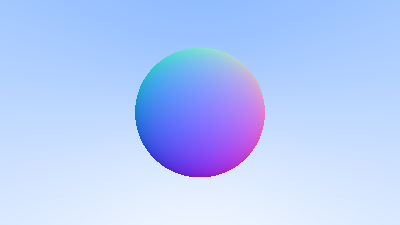
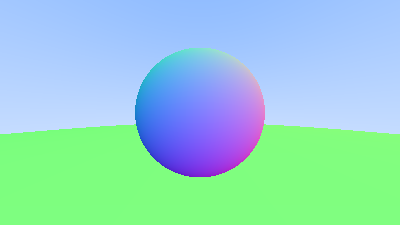
Coverted to single thread but got it to work. Maybe i have to read more to get multithreading to work

diff --git a/rt-lib/src/lib.rs b/rt-lib/src/lib.rs
@@ -19,16 +19,30 @@ impl Engine{
         self.state.world.add(obj);
     }
     pub fn run(&mut self)->bool{
+        //let mut img = vec!(vec!(vec3(0.0, 0.0, 0.0);self.state.dim.x as usize);self.state.dim.y as usize);
+        //let mut w=&self.state.world;
         self.state.cam.initialize();
+        let w=&self.state.world;
         //let w=self.state.world;
-        self.state.img.par_iter_mut().enumerate().for_each(|x| {
+        /*img.par_iter_mut().enumerate().for_each(|x| {
             let y=x.0;
             x.1.iter_mut().enumerate().for_each(|x|{
                 //println!("{}  ,  {}",x.0,y);
                 let c=self.state.cam.render_pixel(x.0 as f32, y as f32,&Box::new(self.state.world));
                 *x.1=c;
             });
-        });
+        });*/
+        for y in 0..self.state.img.len(){
+            /*img[y].par_iter_mut().enumerate().for_each(|x|{
+                //println!("{}  ,  {}",x.0,y);
+                let c=self.state.cam.render_pixel(x.0 as f32, y as f32,&Box::new(self.state.world));
+                *x.1=c;
+            });*/
+            for x in 0..self.state.img[y].len(){
+                let c=self.state.cam.render_pixel(x as f32, y as f32,w);
+                self.state.img[y][x]=c;
+            }
+        }
         true
     }
     pub fn save(&self){

diff --git a/rt-lib/src/camera.rs b/rt-lib/src/camera.rs
@@ -37,14 +37,14 @@ impl Camera {
 
         self.pixel00=view_up_left+((self.pixel_du+self.pixel_dv)*0.5);
     }
-    pub fn render_pixel(&self,i:f32,j:f32, world: &Box<HittableList>)->Vec3{
+    pub fn render_pixel(&self,i:f32,j:f32, world: &HittableList)->Vec3{
         let pixel_c=self.pixel00+(self.pixel_du*i)+(self.pixel_dv*j);
         let r_dir=pixel_c-self.center;
         let r=Ray::new(self.center, r_dir);
         let color=self.render_ray(&r,world);
         color
     }
-    fn render_ray(&self,r:&Ray, world: &Box<HittableList>)->Vec3{
+    fn render_ray(&self,r:&Ray, world: &HittableList)->Vec3{
         //let sphere=Sphere::new(vec3(0.0, 0.0, -1.0), 0.5);
 
         let mut rec:HitRecord=HitRecord { p: Vec3::ZERO, normal: Vec3::ZERO, t: 0.0 , front_face: true};

diff --git a/rt/src/main.rs b/rt/src/main.rs
@@ -10,6 +10,8 @@ fn main() {
     let sphere2=Box::new(Sphere::new((0.0,-100.5,-1.0), 100.0));
     
     //
+    eng.add_object(sphere1);
+    eng.add_object(sphere2);
     eng.run();
     eng.save();
 }
